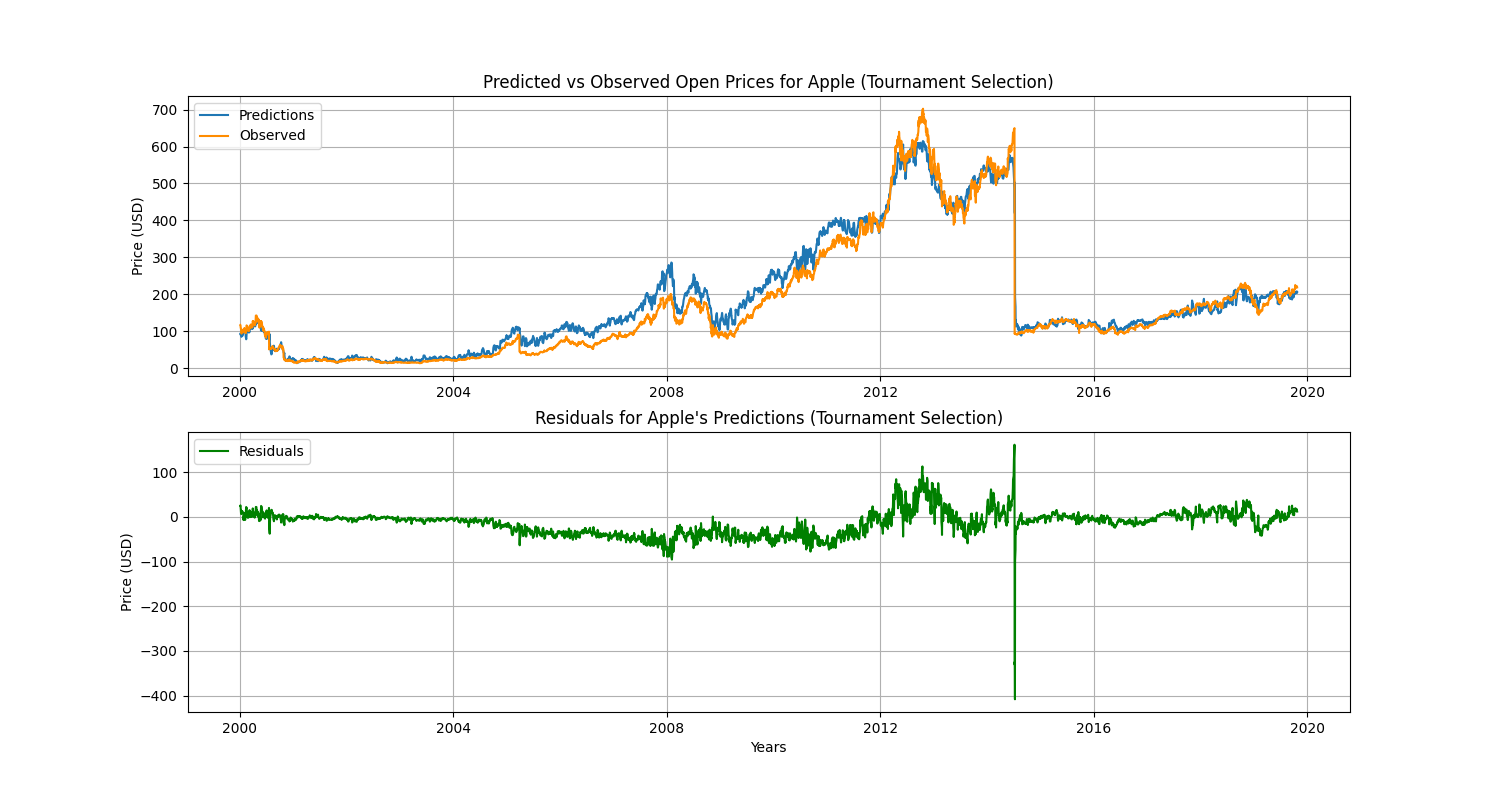
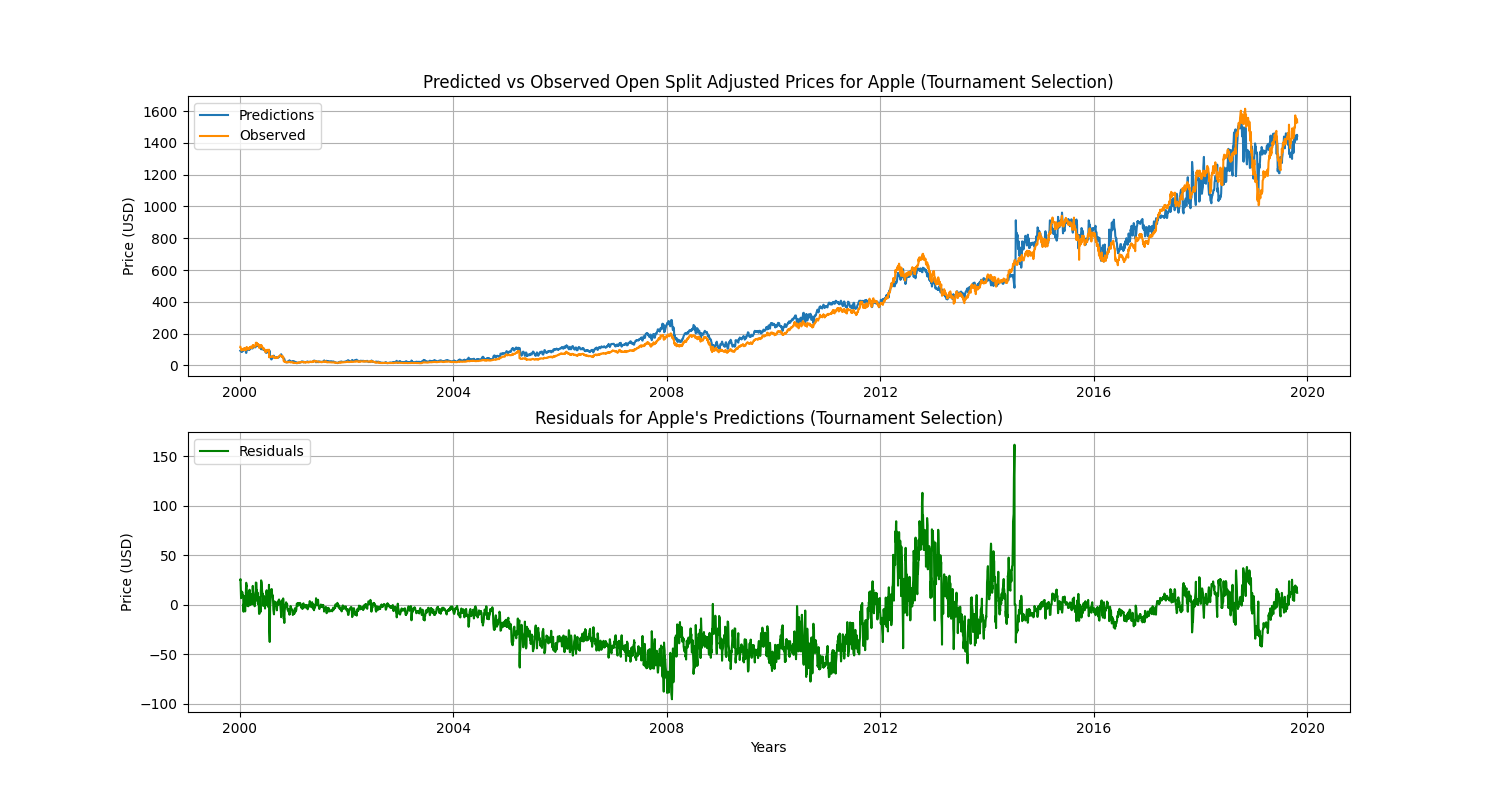
Update graphs and add logistic regression

diff --git a/tournament_selection.py b/tournament_selection.py
@@ -11,6 +11,8 @@ import copy
 import random
 import string
 import pandas as pd
+import seaborn as sn
+
 
 
 def window(X, Y, start=0, end=5):
@@ -106,14 +108,31 @@ def createPlots(model, X_train, Y_train):
     y = Y_train.T
     yhat = model.predict(X_train).T
     x = [float2date(day) for day in data[0,::-1,0]][26:]
+    split = x.index(datetime(2014, 7, 8))
+    last = x.index(datetime(2014, 7, 14))
     # Apple
+    
+    for i in range(len(x)):
+        if i >= split:
+            if i <= last:
+                yhat[0][i] = y[0][i]
+            y[0][i] *= 7
+            yhat[0][i] *= 7
+    
     fig, axs = plt.subplots(2, figsize=(15,8))
     axs[0].plot(x, yhat[0][::], label="Predictions")
     axs[0].plot(x, y[0][::], label="Observed", color="darkorange")
     axs[0].legend(loc=2)
-    axs[0].title.set_text("Predicted vs Observed Open Prices for Apple (Tournament Selection)")
+    axs[0].title.set_text("Predicted vs Observed Open Split Adjusted Prices for Apple (Tournament Selection)")
     axs[0].set_ylabel("Price (USD)")
     axs[0].grid(True)
+
+    for i in range(len(x)):
+        if i >= split:
+            if i <= last:
+                yhat[0][i] = y[0][i]
+            y[0][i] /= 7
+            yhat[0][i] /= 7
 
     e = residuals(y[0][::], yhat[0][::])
     axs[1].plot(x, e, color="g", label="Residuals")
@@ -426,22 +445,41 @@ def movement(model, X, Y):
     returns: portfolio value (float)
     """
     Y = Y.T
-    yhat = model.predict(X_train).T
-    correct, incorrect = 0, 0
+    yhat = model.predict(X).T
+    correct, incorrect, fp, fn, tn, tp = 0, 0, 0, 0, 0, 0
     for stock in range(yhat.shape[0]):
         for i in range(1, yhat.shape[1]):
             if yhat[stock][i] <= yhat[stock][i-1]:
                 if Y[stock][i] <= Y[stock][i-1]:
                     correct += 1
+                    tn += 1
                 else:
                     incorrect += 1
+                    fn += 1
             else:
                 if Y[stock][i] > Y[stock][i-1]:
                     correct += 1
+                    tp += 1
                 else:
                     incorrect += 1
-        return correct/(incorrect+correct)
+                    fp += 1
+       
+    array = [[tp, fp],
+             [fn, tn]]
 
+    df = pd.DataFrame(array, range(2), range(2))
+    plt.figure(figsize=(5,5))
+    plt.title("Confusion Matrix")
+    plt.xlabel("True Label")
+    plt.ylabel("Predicted Label")
+    sn.set(font_scale=1.4) # for label size
+    ax = sn.heatmap(df, annot=True, annot_kws={"size": 16}, square=True, cmap="binary") # font size
+    ax.set_ylabel("Predicted Label")
+    ax.set_xlabel("True Label")
+    ax.set_xticklabels(["Positive", "Negative"])
+    ax.set_yticklabels(["Positive", "Negative"])
+    plt.show()
+    return correct/(incorrect+correct)
 
 def generateData(n=10):
     print("Generating Data points...")
@@ -491,10 +529,31 @@ def summaryStats():
     print(df.describe())
 
 
+def mae(model, X, Y):
+    """
+    Calculates the mean absolute errors of the model
+    params: None
+    returns: mean absolute error (float)
+    """
+    Y = Y.T
+    Yhat = model.predict(X).T
+
+    apple = [abs(i) for i in residuals(Y[0], Yhat[0])]
+    amazon = [abs(i) for i in residuals(Y[1], Yhat[1])]
+    microsoft = [abs(i) for i in residuals(Y[2], Yhat[2])]
+
+    apple = sum(apple) / len(apple)
+    amazon = sum(amazon) / len(amazon)
+    microsoft = sum(microsoft) / len(microsoft)
+
+    return apple + amazon + microsoft
+
 if __name__ == "__main__":
+
     # Get the train/test data
     X_train, X_test, Y_train, Y_test = prepareData()
 
+    """
     # Conduct tournament selection
     generateData()
 
@@ -516,3 +575,12 @@ if __name__ == "__main__":
     createPlots(model, X_train, Y_train)
     createValPlots(model, X_test, Y_test)
     summaryStats()
+    """
+    model = keras.models.load_model("models\\best")
+    createPlots(model, X_train, Y_train)
+    #createValPlots(model, X_test, Y_test)
+    #print(mae(model, X_train, Y_train))
+    #print(mae(model, X_test, Y_test))
+    #print(movement(model, X_train, Y_train))
+    #print(movement(model, X_test, Y_test))
+    # apple 7/8/2014

diff --git a/logistic.py b/logistic.py
@@ -3,7 +3,7 @@ import random
 from matplotlib import pyplot as plt
 from datetime import datetime
 import pandas as pd
-from sklearn.ensemble import RandomForestRegressor
+from sklearn.linear_model import LogisticRegression
 
 
 
@@ -128,18 +128,19 @@ def movement(y, yhat):
 
 
 def createModel(X, y):
-    model = RandomForestRegressor(n_jobs=-1)
+    model = LogisticRegression(n_jobs=-1)
     model.fit(X, y)
     return model
 
 
 def preprocessData(data):
     X, Y = offset(data)
+    Y = [0 if Y[i] > Y[i-1] else 1 for i in range(1, len(Y))]
     return trainTestSplit(X, Y)
 
 
 def trainTestSplit(X, Y):
-    X_train, X_test = X[:-20,:], X[-20:,:]
+    X_train, X_test = X[:-21,:], X[-21:-1,:]
     Y_train, Y_test = Y[:-20], Y[-20:]
     return X_train, X_test, Y_train, Y_test
 
@@ -151,11 +152,10 @@ def offset(data):
 
 
 if __name__ == "__main__":
-    """
     data = getData()
     stacked_data = []
     apple_data, amazon_data, microsoft_data = data[0], data[1], data[2]
-    f = open("experiments\\random_forest.txt", "w")
+    f = open("experiments\\logistic.txt", "w")
     for _ in range(30):
         accuracy = []
         for dataset in [apple_data, amazon_data, microsoft_data]:
@@ -168,22 +168,10 @@ if __name__ == "__main__":
 
             # Test data
             yhat = model.predict(X_test)
-
-            fig, axs = plt.subplots(2, figsize=(15,8))
-            axs[0].plot(x[-20:], yhat, label="Predictions")
-            axs[0].plot(x[-20:], y_test, label="Observed", color="darkorange")
-            axs[0].legend(loc=2)
-            axs[0].title.set_text("Predicted vs Observed Open Prices for Apple")
-
-            e = residuals(y_test, yhat)
-            axs[1].plot(x[-20:], e, color="g", label="Residuals")
-            axs[1].legend(loc=2)
-            axs[1].title.set_text("Residuals for Apple's Predictions")
             accuracy.append(movement(y_test, yhat))
 
             accuracy.append(movement(y_test, yhat))
         f.write(str(sum(accuracy) / 3) + ",")
         
-    """
-    df = pd.read_csv("experiments\\random_forest.txt", header=None).T
+    df = pd.read_csv("experiments\\logistic.txt", header=None).T
     print(df.describe())

diff --git a/baseline.py b/baseline.py
@@ -92,16 +92,24 @@ def createPlots():
     returns: None 
     """
     data = getData()
-    x = [float2date(day) for day in data[0,:,0]]
-    yhat = predictions(getData())
-    y = observed(getData())
-
+    x = [float2date(day) for day in data[0,::-1,0]]
+    yhat = predictions(getData())[:, ::-1]
+    y = observed(getData())[:, ::-1]
+    split = x.index(datetime(2014, 7, 8))
+    last = x.index(datetime(2014, 6, 9))
     # Apple
+    for i in range(len(x)):
+        if i >= last and i < split:
+            y[0][i] += 500
+            yhat[0][i] += 500
+        if i >= split:
+            y[0][i] *= 7
+            yhat[0][i] *= 7
     fig, axs = plt.subplots(2, figsize=(15,8))
-    axs[0].plot(x, yhat[0], label="Predictions")
-    axs[0].plot(x, y[0], label="Observed", color="darkorange")
+    axs[0].plot(x, yhat[0][::], label="Predictions")
+    axs[0].plot(x, y[0][::], label="Observed", color="darkorange")
     axs[0].legend(loc=2)
-    axs[0].title.set_text("Predicted vs Observed Open Prices for Apple (Random Walk)")
+    axs[0].title.set_text("Predicted vs Observed Open Split Adjusted Prices for Apple (Random Walk)")
     axs[0].set_ylabel("Price (USD)")
     axs[0].grid(True)
 
@@ -199,7 +207,22 @@ def summaryStats():
     print(df.describe())
 
 
+def mae():
+    yhat = predictions(getData())
+    y = observed(getData())
+
+    apple = [abs(i) for i in residuals(y[0], yhat[0])]
+    amazon = [abs(i) for i in residuals(y[1], yhat[1])]
+    microsoft = [abs(i) for i in residuals(y[2], yhat[2])]
+
+    apple = sum(apple) / len(apple)
+    amazon = sum(amazon) / len(amazon)
+    microsoft = sum(microsoft) / len(microsoft)
+
+    return apple + amazon + microsoft
+
 if __name__ == "__main__":
     createPlots()
     #generateData()
     #summaryStats()
+    #print(mae())
